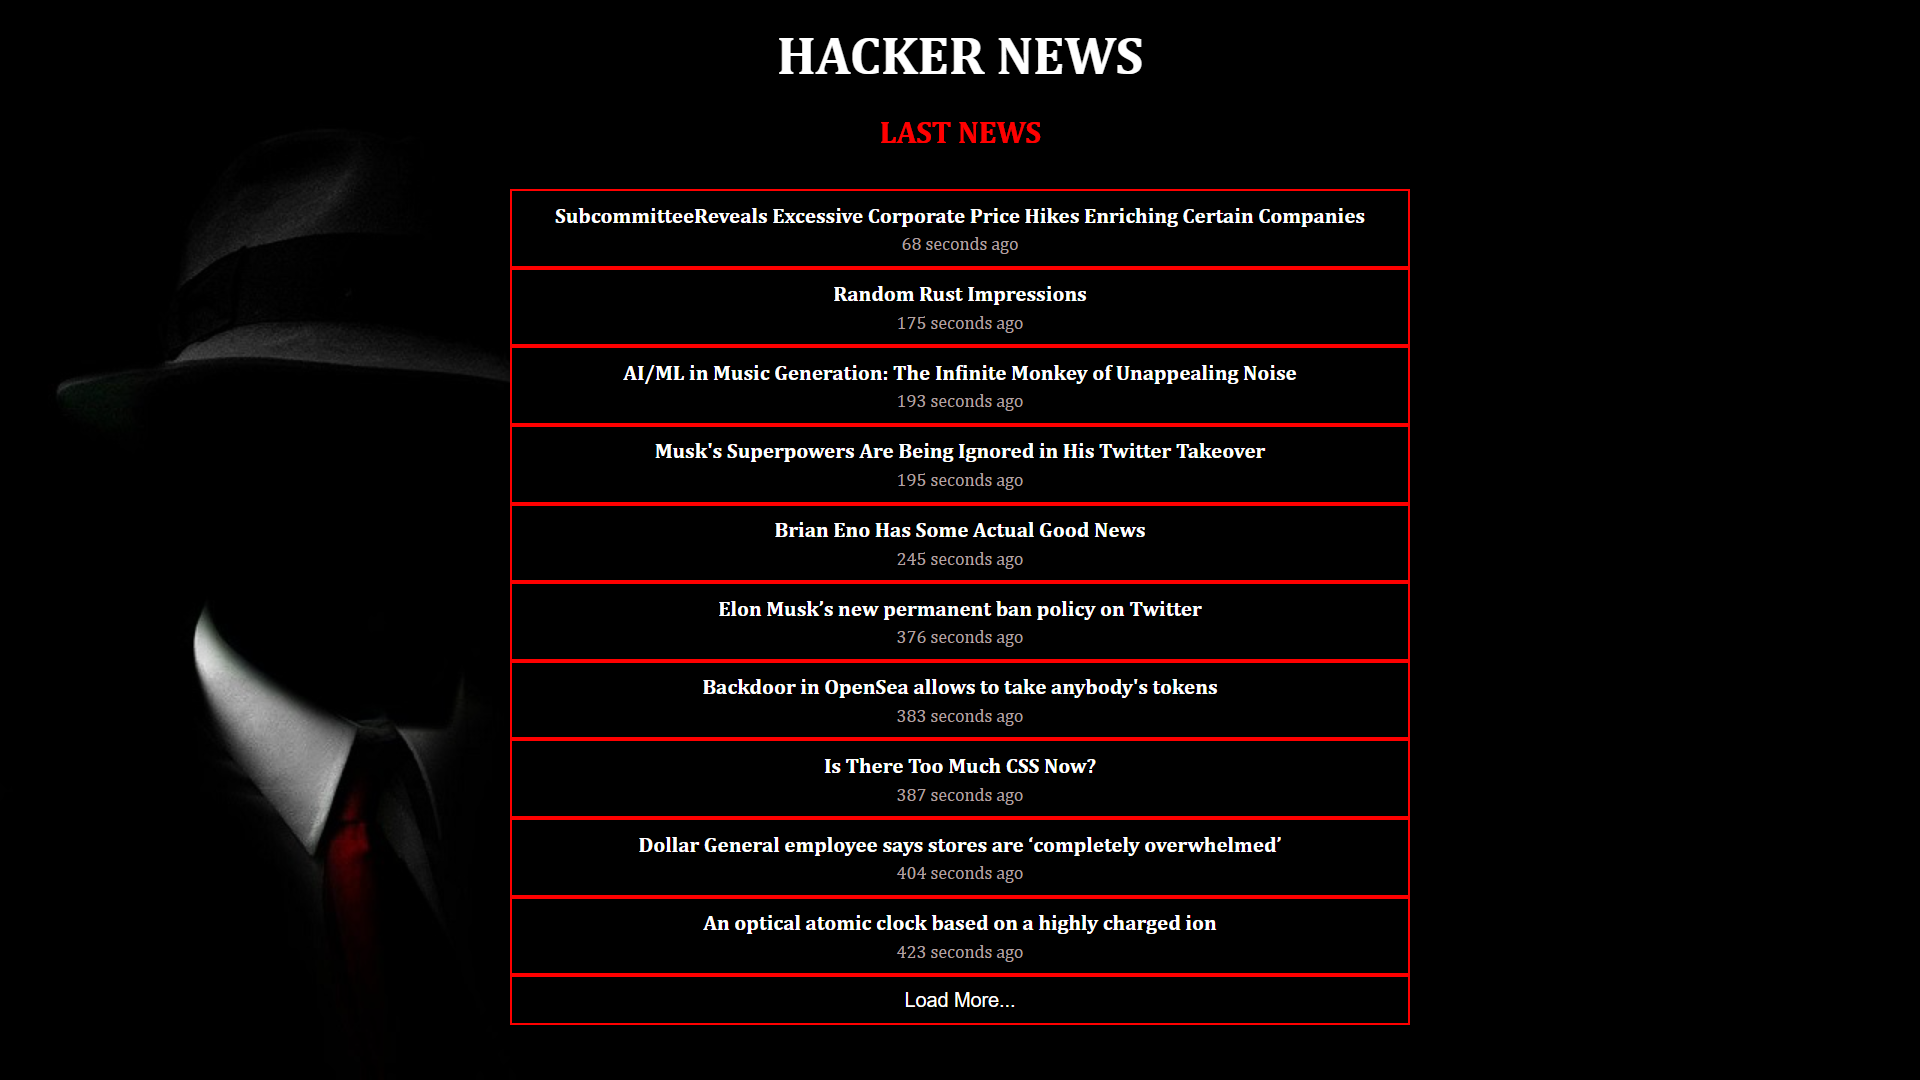
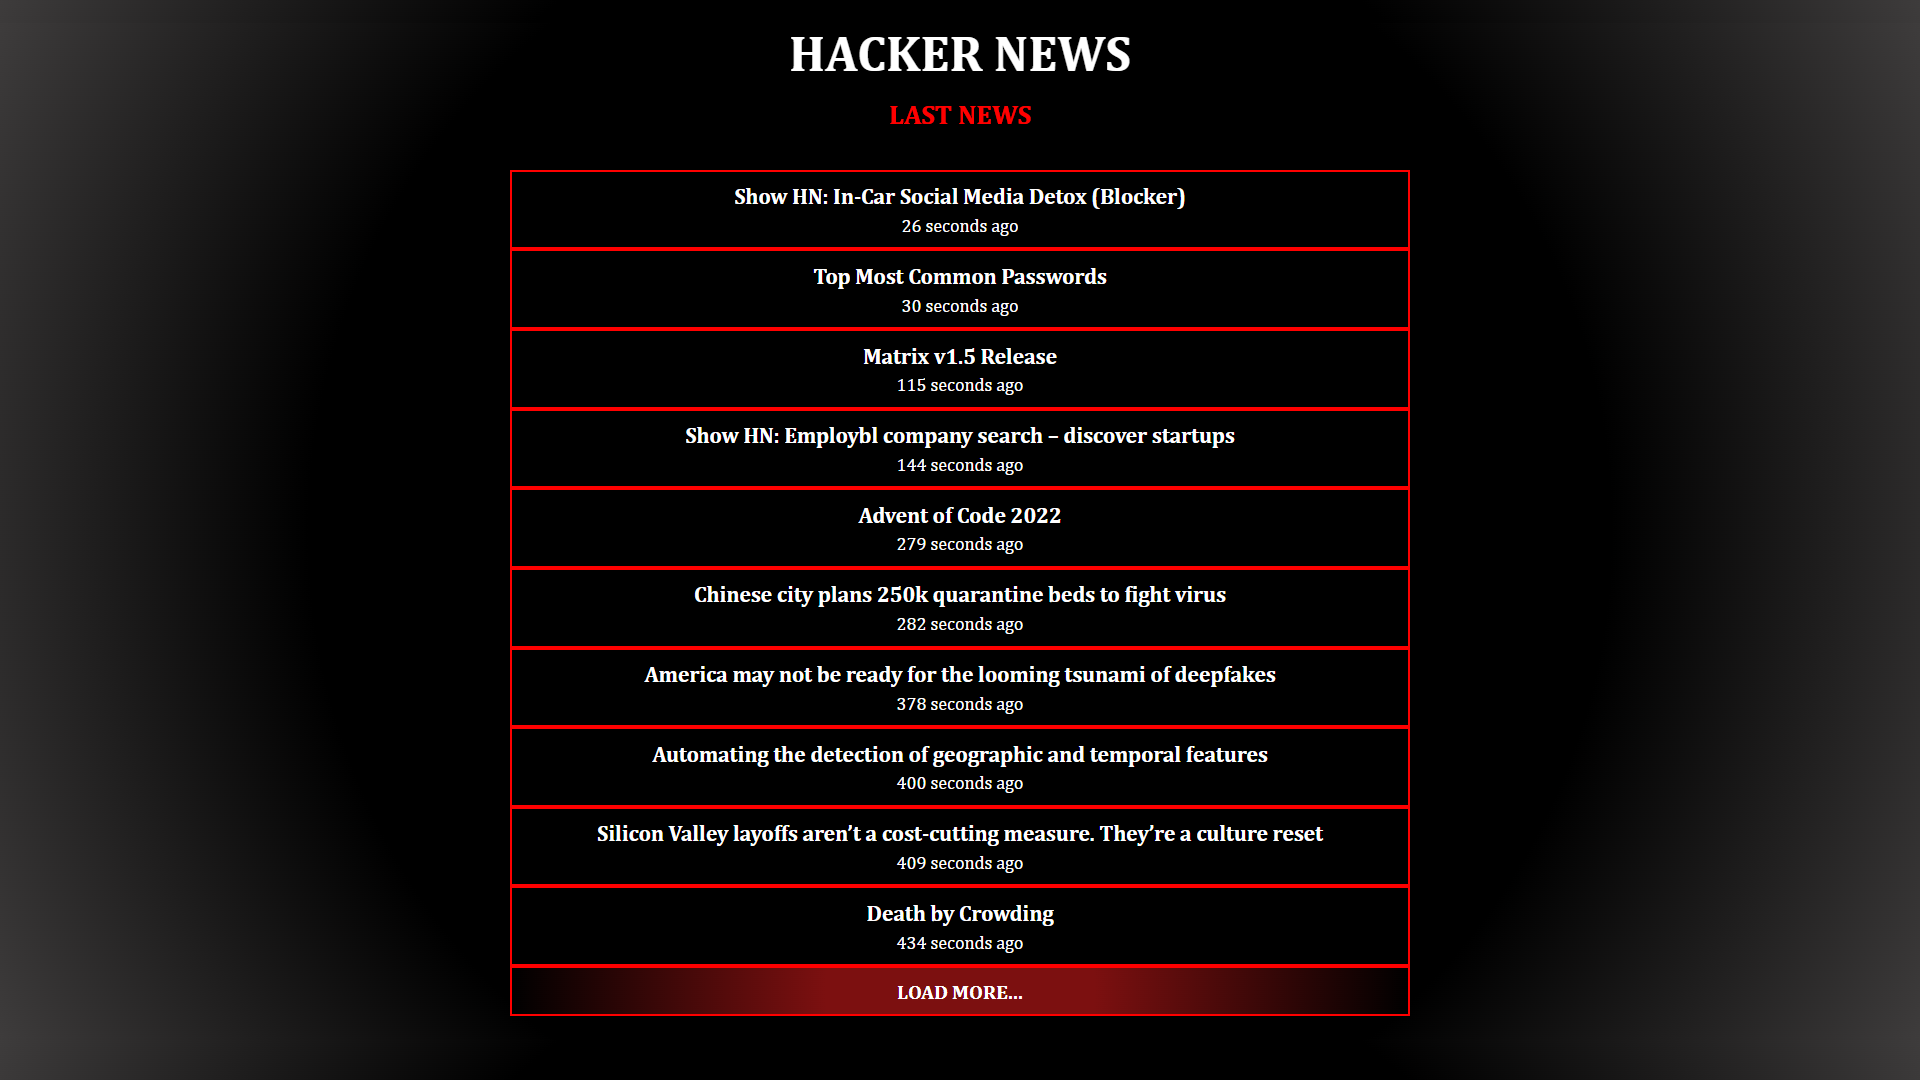
Update style and html

diff --git a/src/style.scss b/src/style.scss
@@ -4,26 +4,28 @@ $text-color: white;
 $par-color: rgb(179, 161, 161);
 
 
-body, html{ font-size: 16px; font-family: Cambria, Cochin, Georgia, Times, 'Times New Roman', serif, sans-serif; box-sizing: border-box;margin: 0;padding: 0;}
+body, html{background: rgb(0,0,0);
+    background: radial-gradient(circle, rgba(0,0,0,1) 60%, rgba(62,60,60,1) 100%); font-size: 16px; font-family: Cambria, Cochin, Georgia, Times, 'Times New Roman', serif, sans-serif; box-sizing: border-box;margin: 0;padding: 0;}
 *,*:before,*:after{ box-sizing: border-box; }
 h1,h2,h3,h4,h5,h6, p, ol, ul{margin: 0;padding: 0;}
 ol,ul{list-style-type: none;}
 img{height: auto;}
 
 
-.hacker-image {
-    background-size: cover;
-    isolation: isolate;
+// .hacker-image {
+//     background-size: cover;
+//     isolation: isolate;
+   
 
-    .hacker-image::after {
-        content: "";
-        position: absolute;
-        background: black;
-        inset: 0;
-        z-index: -1;
-        opacity: 0.1;
-    }
-}
+//     // .hacker-image::after {
+//     //     content: "";
+//     //     position: absolute;
+//     //     background: black;
+//     //     inset: 0;
+//     //     z-index: -1;
+//     //     opacity: 0.1;
+//     // }
+// }
 
 .hacker-news {
 
@@ -74,7 +76,7 @@ img{height: auto;}
         margin-bottom: 5px;
         
         :hover {
-            font-size: 1.3rem;
+            color: red
         }
         }
 
@@ -82,9 +84,6 @@ img{height: auto;}
             text-align: center;
             margin-bottom: 10px;
         }
-
-        
-       
     }
 
     .news-time {
@@ -92,9 +91,6 @@ img{height: auto;}
         color: $par-color;
         margin-bottom: 10px;
     }
-
-   
-
 }
 
 
@@ -109,10 +105,18 @@ img{height: auto;}
         border: 2px solid $h2-color;
         width: 800px;
         padding: 10px 23px;
-        font-size: 1.2rem;
-        background: $background-color;
-        color: $text-color;
+        font-size: 1.1rem;
+        font-weight: bold;
+        color: white;
+        background: rgb(124,16,16);
+        background: radial-gradient(circle, rgba(124,16,16,1) 30%, rgba(0,0,0,1) 100%);
         cursor: pointer;
+
     }
+
+    // :hover {
+    //     background: rgb(2,0,36);
+    //     background: radial-gradient(circle, rgba(2,0,36,1) 0%, rgba(9,9,121,1) 35%, rgba(0,212,255,1) 100%);
+    // }
 }
 

diff --git a/src/style.css b/src/style.css
@@ -1,4 +1,6 @@
 body, html {
+  background: rgb(0, 0, 0);
+  background: radial-gradient(circle, rgb(0, 0, 0) 60%, rgb(62, 60, 60) 100%);
   font-size: 16px;
   font-family: Cambria, Cochin, Georgia, Times, "Times New Roman", serif, sans-serif;
   box-sizing: border-box;
@@ -21,19 +23,6 @@ ol, ul {
 
 img {
   height: auto;
-}
-
-.hacker-image {
-  background-size: cover;
-  isolation: isolate;
-}
-.hacker-image .hacker-image::after {
-  content: "";
-  position: absolute;
-  background: black;
-  inset: 0;
-  z-index: -1;
-  opacity: 0.1;
 }
 
 .hacker-news h1 {
@@ -78,7 +67,7 @@ img {
   margin-bottom: 5px;
 }
 .news-avaible .news h3 :hover {
-  font-size: 1.3rem;
+  color: red;
 }
 .news-avaible .news p {
   text-align: center;
@@ -101,8 +90,10 @@ img {
   border: 2px solid red;
   width: 800px;
   padding: 10px 23px;
-  font-size: 1.2rem;
-  background: black;
+  font-size: 1.1rem;
+  font-weight: bold;
   color: white;
+  background: rgb(124, 16, 16);
+  background: radial-gradient(circle, rgb(124, 16, 16) 30%, rgb(0, 0, 0) 100%);
   cursor: pointer;
 }/*# sourceMappingURL=style.css.map */

diff --git a/src/index.js b/src/index.js
@@ -34,8 +34,8 @@ function createElement(arr, listNews) { // Creo la funzione che raccoglie i dati
                                   </a> 
                                  <div>`)
       })
-    })) .catch ((error) => { // In questo caso "catch" è fondamentale per raccogliere gli eventuali errori, che verranno mostrati nella console del browser
-        console.log(error)
+    })) .catch ((error) => { // In questo caso "catch" è fondamentale per raccogliere gli eventuali errori, che verranno mostrati sottoforma di alert
+        alert(error)
     })
     }
 

diff --git a/index.html b/index.html
@@ -15,14 +15,13 @@
 </head>
 
 <body>
-    <body background="img\Hacker2.jpg" class="hacker-image"></body>
     <div class="hacker-news">
         <h1>HACKER NEWS</h1>
         <h2 class="last-news">LAST NEWS</h2>
     </div>
     <div class="news-avaible"></div>
     <div class="box-load">
-        <button id="load-button">Load More...</button>
+        <button id="load-button">LOAD MORE...</button>
     </div>
     <script type="module" src="src\index.js"></script>
 </body>
